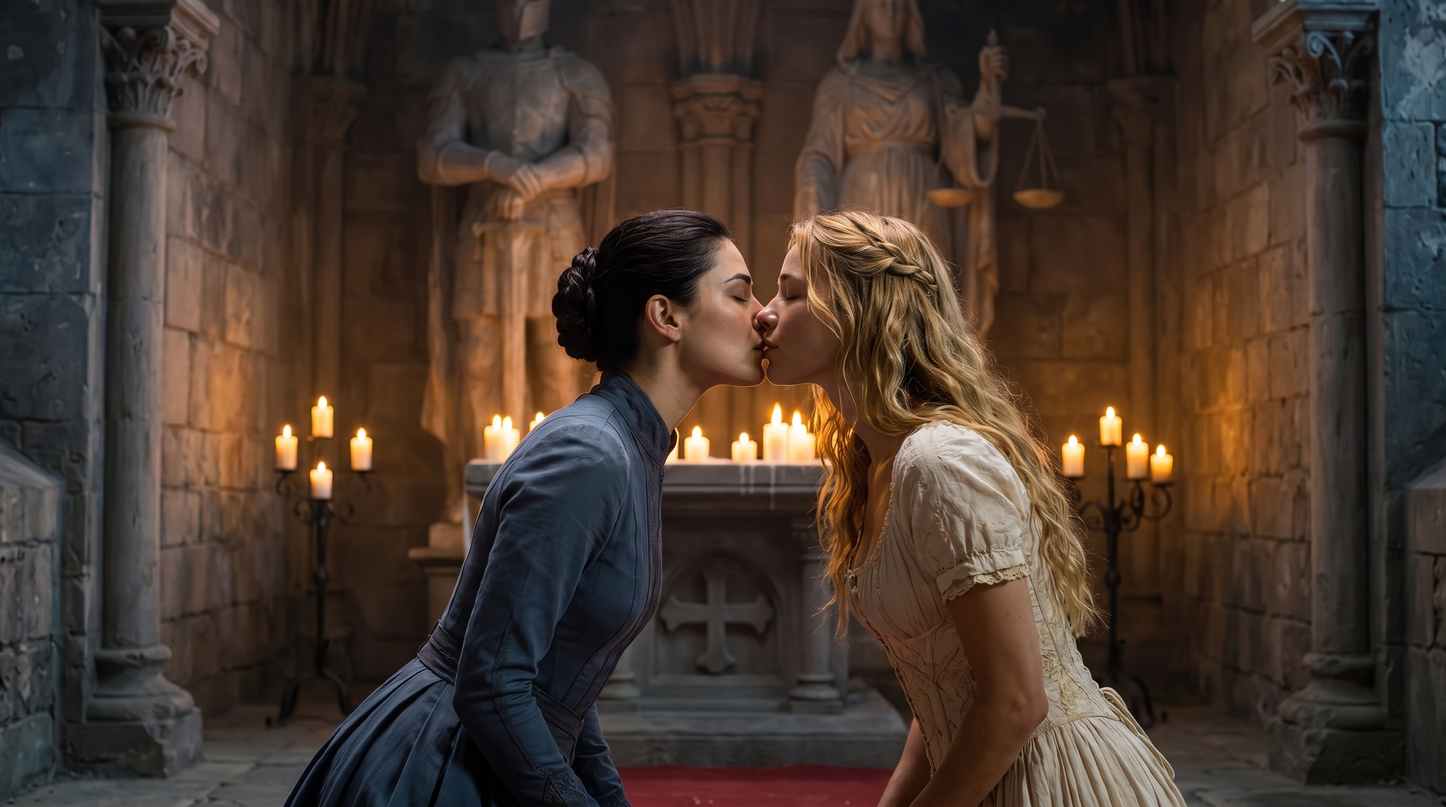
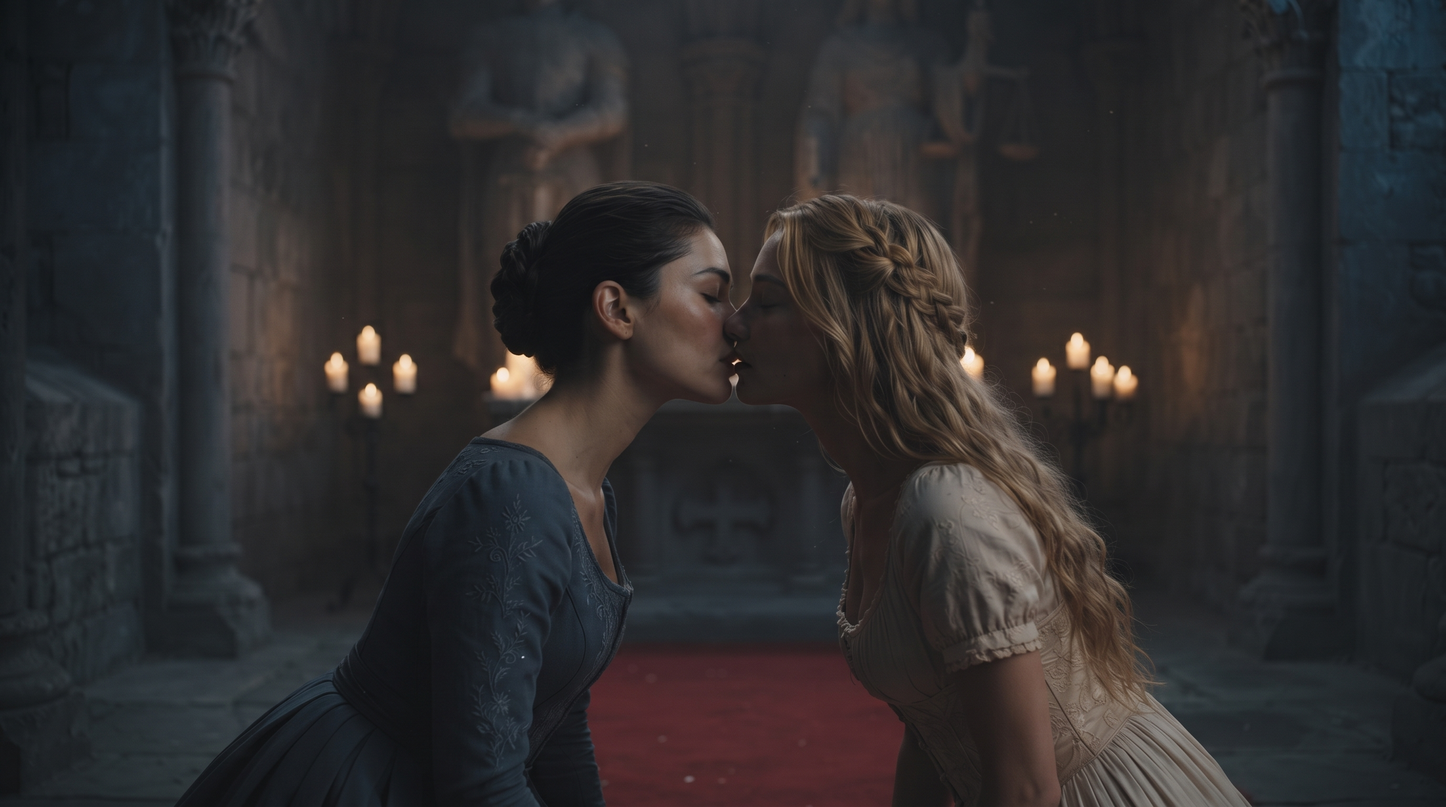
Cap. IV v8.5: despedida em tres paginas com imagens novas, chao da arena, cutscene limpa

diff --git a/capitulo4.js b/capitulo4.js
@@ -742,13 +742,19 @@ window.LIVRO = {
         T('A fumaça da vela que apagou ainda sobe na frente do rosto da Juíza.', 'The smoke from the candle that went out is still rising in front of the Judge’s face.'), // v8.2
         T('Justine encosta a testa no meu ombro. Sinto a respiração dela através da camisa, ainda rápida.', 'Justine rests her forehead on my shoulder. I can feel her breath through my shirt, still quick.'),
       ] },
-    { id: 'j3', zona: 'noite', se: (st) => st.escolhas.noite === 'justine', fundo: (st) => ({ img: IMG(lenco(st) ? 'lenco-mao' : 'despedida-portas'), alt: [IMG('despedida-portas'), IMG('corredor-noite')], kb: 'in', foco: '55% 45%', dim: .5, clima: 'velas' }), pulso: 1.6, fim: true,
+    { id: 'j3', zona: 'noite', se: (st) => st.escolhas.noite === 'justine', fundo: { img: IMG('despedida-portas'), alt: IMG('corredor-noite'), kb: 'in', foco: '50% 45%', dim: .5, clima: 'velas' }, pulso: 1.8,
       texto: [
         T('Saímos por portas diferentes, ela pela nave, eu pela sacristia.', 'We leave by different doors, she through the nave, I through the vestry.'),
-        (st) => (lenco(st) ? [T('Na sacristia, tiro o lenço dela de dentro da manga para devolver. Ela fecha a minha mão em cima dele.', 'In the vestry, I take her handkerchief from my sleeve to give it back. She closes my hand over it.'),
-          T('— Fica com ele. Tem a sua mancha agora.', '— Keep it. It has your stain now.')] : null),
+      ] },
+    { id: 'j3b', zona: 'noite', se: (st) => st.escolhas.noite === 'justine' && !!lenco(st), fundo: { img: IMG('lenco-mao'), alt: IMG('despedida-portas'), kb: 'in', foco: '50% 50%', dim: .5, clima: 'velas' }, pulso: 2,
+      texto: [
+        T('Na sacristia, tiro o lenço dela de dentro da manga para devolver. Ela fecha a minha mão em cima dele.', 'In the vestry, I take her handkerchief from my sleeve to give it back. She closes my hand over it.'),
+        T('— Fica com ele. Tem a sua mancha agora.', '— Keep it. It has your stain now.'),
+      ] },
+    { id: 'j3c', zona: 'noite', se: (st) => st.escolhas.noite === 'justine', fundo: { img: IMG('corredor-noite'), kb: 'in', foco: '55% 45%', dim: .55 }, pulso: 1.4, fim: true,
+      texto: [
         T('Volto pelo jardim. Na metade, percebo que parei de contar os passos.', 'I go back through the garden. Halfway, I notice I’ve stopped counting my steps.'),
-        T('Quando passo a perna pela janela, a cadeira do quarto está virada para ela. Quando saí, não estava. Não tem ninguém sentado.', 'When I swing my leg over the sill, the chair in my room is turned to face the window. When I left, it wasn’t. Nobody is sitting in it.'),
+        T('Quando passo a perna pela janela, a cadeira do quarto está virada para ela. Eu a deixei virada para a cama. Não tem ninguém sentado.', 'When I swing my leg over the sill, the chair in my room is turned to face the window. I left it facing the bed. Nobody is sitting in it.'),
       ] },
 
     // ----- Markus
@@ -786,7 +792,7 @@ window.LIVRO = {
         T('Ofereço a mão. Ele aperta e não solta logo. O polegar dele para em cima dos calos.', 'I offer my hand. He takes it and doesn’t let go right away. His thumb stops on the calluses.'),
         T('O curandeiro se mexe na cadeira. Soltamos ao mesmo tempo.', 'The healer stirs in his chair. We let go at the same moment.'),
         T('Na metade do muro, olho para trás. A vela da tenda ainda está acesa.', 'Halfway up the wall, I look back. The candle in the tent is still lit.'),
-        T('Quando passo a perna pela janela, a cadeira do quarto está virada para ela. Quando saí, não estava. Não tem ninguém sentado.', 'When I swing my leg over the sill, the chair in my room is turned to face the window. When I left, it wasn’t. Nobody is sitting in it.'),
+        T('Quando passo a perna pela janela, a cadeira do quarto está virada para ela. Eu a deixei virada para a cama. Não tem ninguém sentado.', 'When I swing my leg over the sill, the chair in my room is turned to face the window. I left it facing the bed. Nobody is sitting in it.'),
       ] },
 
     // ----- a mãe

diff --git a/MIDIAS_PENDENTES.md b/MIDIAS_PENDENTES.md
@@ -8,7 +8,7 @@ O capítulo roda inteiro sem os itens que ainda faltam: voz ou som que falta nã
 |---|---|---|
 | Dublagem | as 13 falas novas da Laura | nada |
 | Vídeos | `oratorio-vela`, `juiza-balanca`, `dolores-maos` (com `.mp4` e `.webm`) | nada |
-| Imagens | `telhado-noite`, `tenda-curandeiros`, `juiza-balanca` | 2 da despedida (seção 2b) |
+| Imagens | `telhado-noite`, `tenda-curandeiros`, `juiza-balanca`, `despedida-portas`, `lenco-mao` | nada |
 | Sons do oratório | | 4 efeitos (seção 3) |
 | Trilha | | 2 opcionais (seção 4) |
 
@@ -45,9 +45,9 @@ Todas em `assets/audio/voz/`. `desviar`, `deixa` e `merecia-voce` vieram baixas 
 
 Os vídeos foram reconvertidos para 1280 de largura, sem áudio, em `.mp4` e `.webm`. As imagens estão em `.jpg` de 1920.
 
-## 2b. A despedida de Justine e Laura · 2 imagens (faltam)
+## 2b. A despedida de Justine e Laura · 2 imagens (instaladas)
 
-A página j3 usava `corredor-noite`, a mesma do Cap. II. Agora ela tem imagem própria, em duas versões: a do lenço aparece quando Laura ainda carrega o lenço da Justine; a das portas, nos outros casos. Enquanto não existirem, a página continua com `corredor-noite`. Se só a das portas existir, ela cobre os dois casos.
+A página j3 usava `corredor-noite`, a mesma do Cap. II. Agora ela tem imagem própria, em duas versões: a do lenço aparece quando Laura ainda carrega o lenço da Justine; a das portas, nos outros casos. As duas já estão instaladas. Os prompts ficam aqui para consulta.
 
 - `assets/images/despedida-portas.jpg` (j3, todas as rotas):
 
@@ -55,10 +55,10 @@ A página j3 usava `corredor-noite`, a mesma do Cap. II. Agora ela tem imagem pr
 Night inside a small medieval stone shrine. Seen from the dark vestry doorway in the foreground, a young woman with long wavy golden-blonde hair stands with her back to the camera, one hand on the iron latch of the vestry door. Across the candlelit nave, at the far main door, a young woman with dark brown hair in a low bun and a high-collared charcoal dress pauses with the door half open and looks back over her shoulder. Altar candles, one burnt out with a thin wisp of smoke, stone statues of a knight and a blindfolded judge with scales in the background. The whole width of the nave between them. Quiet, bittersweet, warm candlelight against cold blue stone, painterly realism, cinematic, 16:9, no text
 ```
 
-- `assets/images/lenco-mao.jpg` (j3, só quando Laura tem o lenço):
+- `assets/images/lenco-mao.jpg` (j3, só quando Laura tem o lenço). O vestido da Laura é de linho creme com **mangas curtas e bufantes**, então o antebraço dela aparece nu; o de Justine é cinza-carvão de manga comprida e gola alta:
 
 ```
-Extreme close-up by candlelight in a stone vestry: a hand in a high-collared charcoal sleeve gently closes another young woman's calloused fingers over a small worn white linen handkerchief, a letter J embroidered in the corner and a faint brownish stain on the cloth. A few drops of drizzle on both sleeves, an iron door latch blurred behind, warm candle glow, shallow depth of field, tender and restrained, no faces, painterly realism, 16:9, no text
+Extreme close-up by candlelight in a stone vestry, hands only, no faces. On the left, a young woman's bare forearm and hand emerging from the short puffed sleeve of a cream linen dress, the palm slightly rough with calluses at the base of the fingers, holding a small worn white linen handkerchief with a letter J embroidered in one corner and a faint brownish stain. On the right, another young woman's slender pale hand in a long fitted charcoal-grey sleeve with a high buttoned cuff gently closes the first hand's fingers over the handkerchief. A few drops of drizzle on the bare forearm and on the charcoal sleeve, an iron door latch softly blurred behind, warm candle glow against cold blue stone, shallow depth of field, tender and restrained, painterly realism, 16:9, no text
 ```
 
 ## 3. Sons do oratório · 4 efeitos (faltam)
